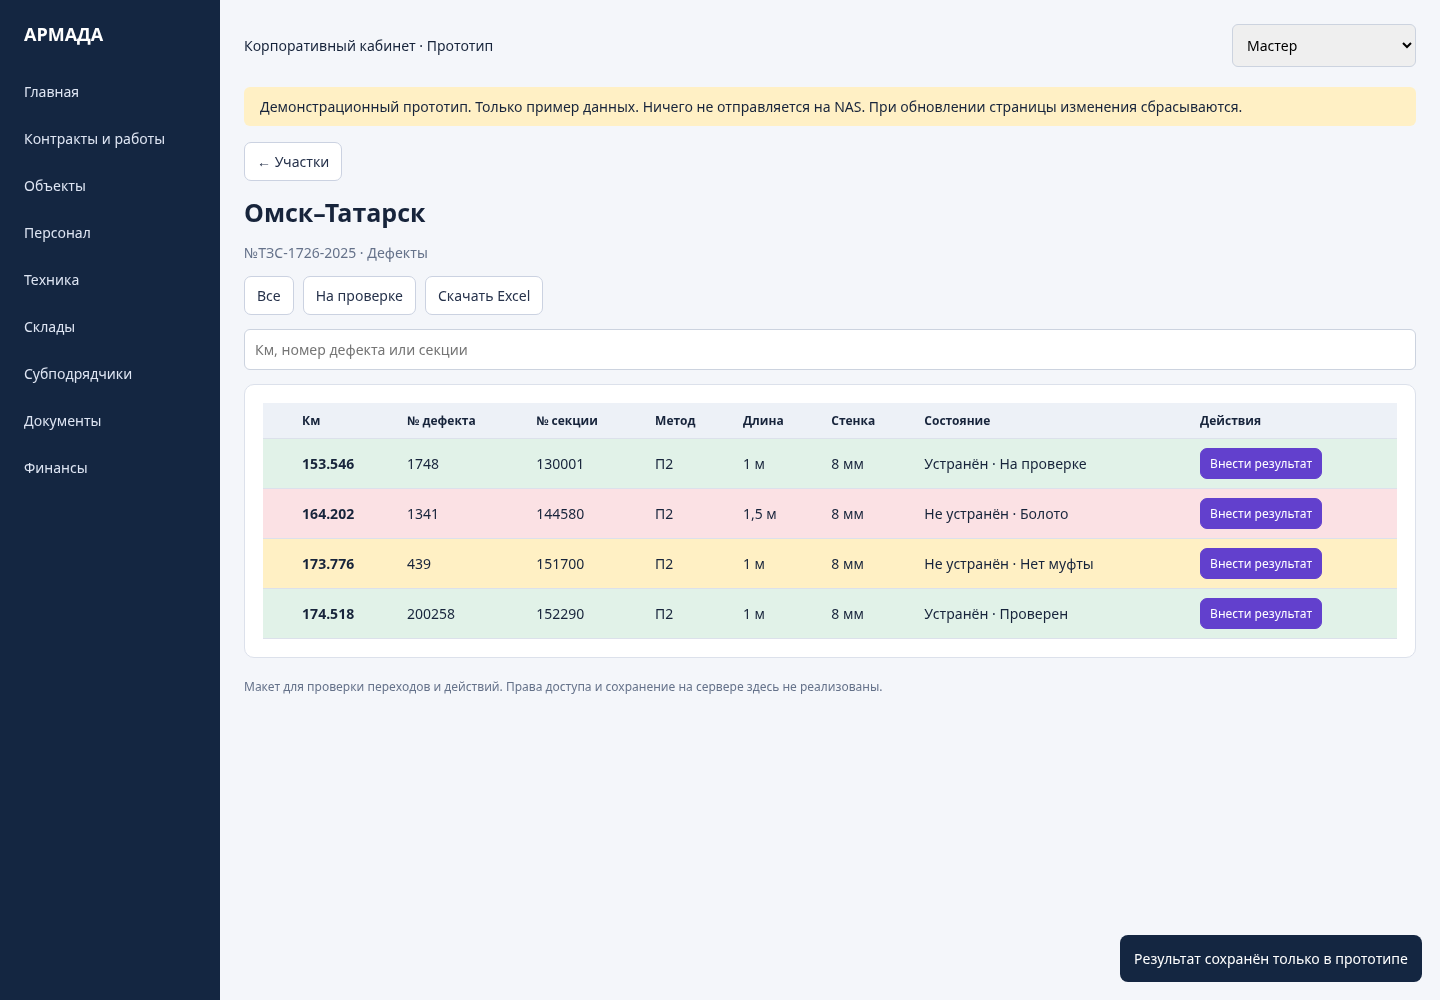
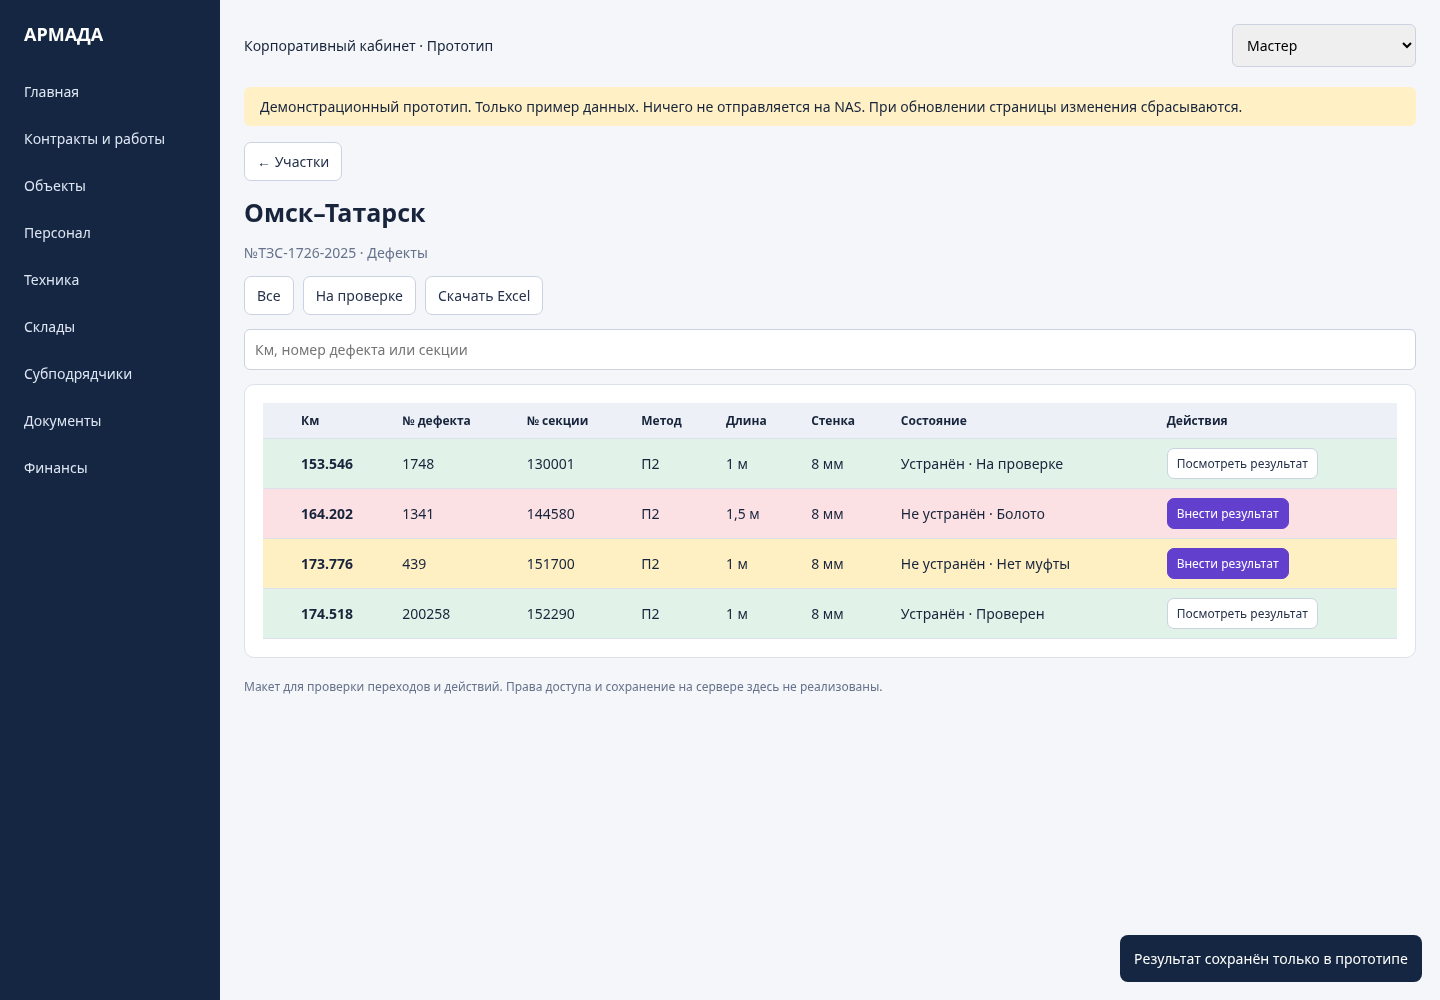
Add standalone clickable discussion prototype

diff --git a/prototype/index.html b/prototype/index.html
@@ -20,7 +20,7 @@ function review(){onlyReview=true;selected.clear();ci=0;go('defects')}
 function openContract(i){ci=i;go('contract')}
 function tone(j){return ['reported','confirmed'].includes(j.state)?'resolved':j.state}
 function status(j){return j.state==='reported'?'Устранён · На проверке':j.state==='confirmed'?'Устранён · Проверен':'Не устранён'+(j.reason?' · '+j.reason:' · Ещё не выполняли')}
-function action(j){return $('#role').value==='Мастер'?btn('Внести результат',`report(${j.id})`,'primary'):(j.state==='reported'?btn('Посмотреть',`detail(${j.id})`)+ ' '+btn('Подтвердить',`confirmJobs([${j.id}])`,'primary'):btn('Открыть',`detail(${j.id})`))}
+function action(j){return $('#role').value==='Мастер'?(['reported','confirmed'].includes(j.state)?btn('Посмотреть результат',`detail(${j.id})`):btn('Внести результат',`report(${j.id})`,'primary')):(j.state==='reported'?btn('Посмотреть',`detail(${j.id})`)+ ' '+btn('Подтвердить',`confirmJobs([${j.id}])`,'primary'):btn('Открыть',`detail(${j.id})`))}
 function picked(id,on){on?selected.add(id):selected.delete(id);render()}
 function confirmJobs(ids){let chosen=jobs.filter(j=>ids.includes(j.id)&&j.state==='reported');if(!chosen.length)return toast('Выберите результаты на проверке');modal('Подтвердить устранение',`<p>Работ: ${chosen.length}. Подтвердить результаты проверки?</p>`,btn('Подтвердить',`accept(${JSON.stringify(chosen.map(j=>j.id))})`,'primary'))}
 function accept(ids){jobs.forEach(j=>{if(ids.includes(j.id)&&j.state==='reported')j.state='confirmed'});selected.clear();$('#dialog').close();render();toast('Результат подтверждён — в прототипе')}
